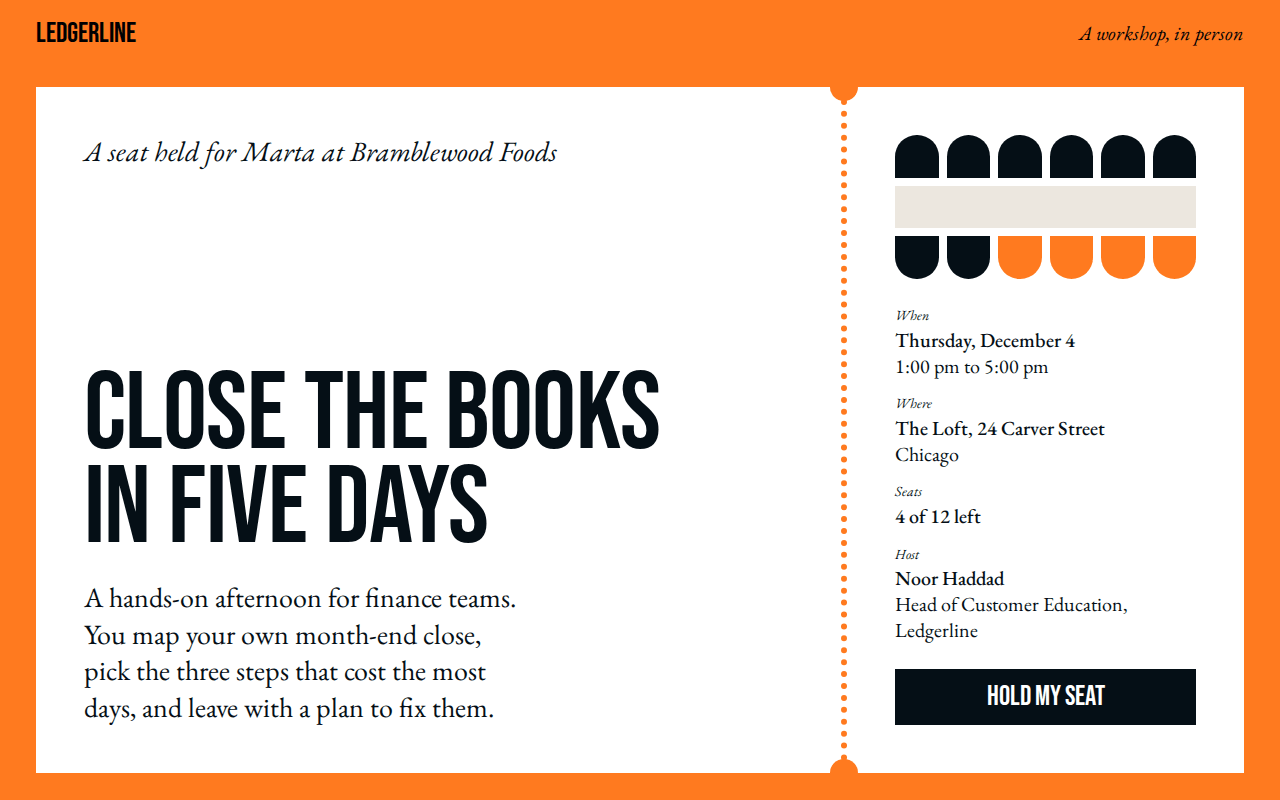
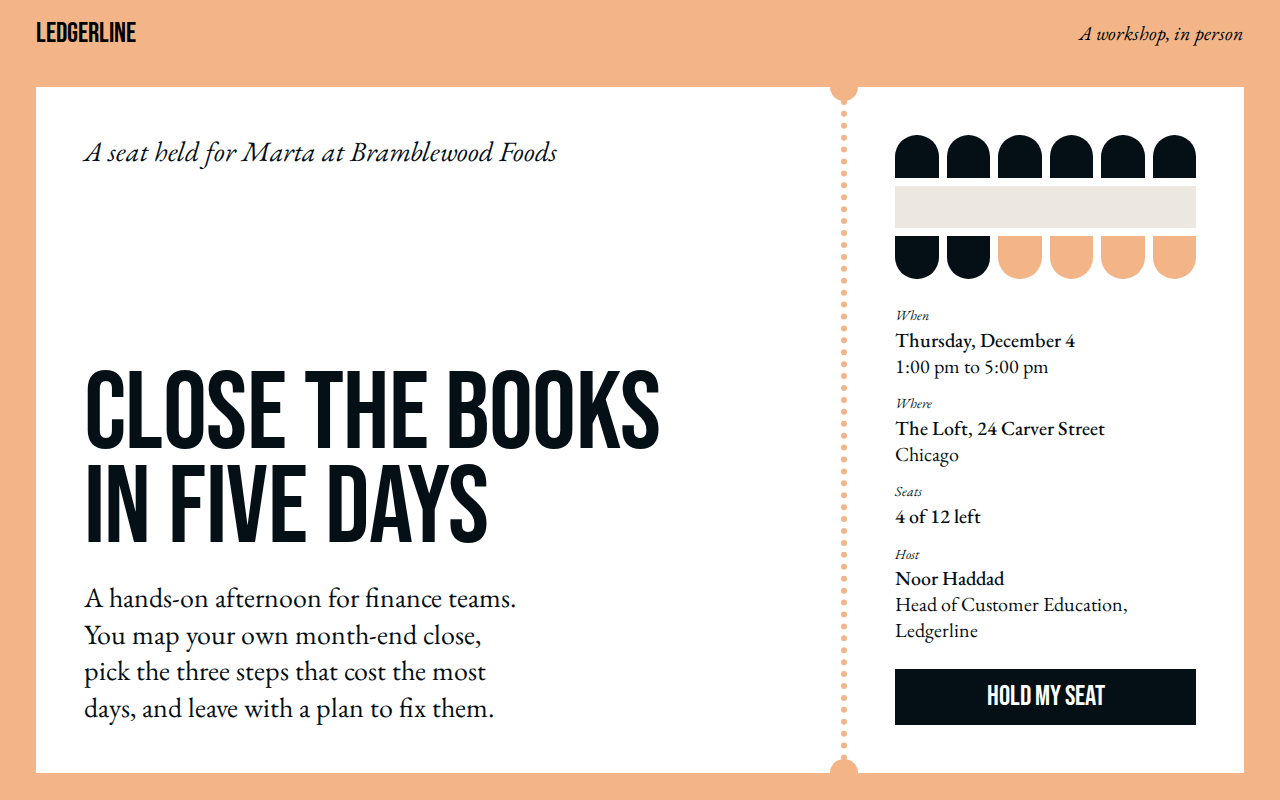
Library colour pass: workshop, softer orange workbench ground

Changed region(s): [[0.0, 0.0, 1.0, 1.0], [0.7812, 0.2812, 0.9375, 0.3438]]

diff --git a/starters/workshop/preview/norland-waitlist.html b/starters/workshop/preview/norland-waitlist.html
@@ -9,7 +9,7 @@
 <link rel="stylesheet" href="https://fonts.googleapis.com/css2?family=EB+Garamond:ital,wght@0,400;0,500;1,400&display=swap">
 <style>
 :root{
-  --p:#ff7a1f;
+  --p:#f3b588;
   --s:#050f16;
   --fh:'Bebas Neue','Arial Narrow',Arial,sans-serif;
   --fb:'EB Garamond',Georgia,serif;
@@ -289,7 +289,7 @@ body:not(.caps) .card h1{line-height:.98}
 </div>
 </div>
 <div class="right">
-<form class="ken-form" data-ken-form="seat" data-ken-preview><input type="hidden" name="_ken_form" value="seat"><label class="ken-form-field"><span>Name</span><input type="text" name="name" maxlength="500" required disabled></label><label class="ken-form-field"><span>Email</span><input type="email" name="email" maxlength="500" required disabled></label><label class="ken-form-field"><span>Company</span><input type="text" name="company" maxlength="500" disabled></label><label class="ken-form-field"><span>Title</span><input type="text" name="title" maxlength="500" disabled></label><label class="ken-form-field"><span>Note</span><textarea name="note" rows="4" maxlength="2000" disabled></textarea></label><button type="submit" class="ken-form-submit" disabled style="padding:12px 20px;border:0;border-radius:8px;background:#ff7a1f;color:#fff;font-weight:600;cursor:not-allowed">Join the waitlist</button><p class="ken-form-preview" role="note" style="margin:8px 0 0;font-size:13px;opacity:.7">Preview: not saved</p></form>
+<form class="ken-form" data-ken-form="seat" data-ken-preview><input type="hidden" name="_ken_form" value="seat"><label class="ken-form-field"><span>Name</span><input type="text" name="name" maxlength="500" required disabled></label><label class="ken-form-field"><span>Email</span><input type="email" name="email" maxlength="500" required disabled></label><label class="ken-form-field"><span>Company</span><input type="text" name="company" maxlength="500" disabled></label><label class="ken-form-field"><span>Title</span><input type="text" name="title" maxlength="500" disabled></label><label class="ken-form-field"><span>Note</span><textarea name="note" rows="4" maxlength="2000" disabled></textarea></label><button type="submit" class="ken-form-submit" disabled style="padding:12px 20px;border:0;border-radius:8px;background:#f3b588;color:#fff;font-weight:600;cursor:not-allowed">Join the waitlist</button><p class="ken-form-preview" role="note" style="margin:8px 0 0;font-size:13px;opacity:.7">Preview: not saved</p></form>
 </div>
 </section>
 

diff --git a/starters/workshop/preview/bramblewood.html b/starters/workshop/preview/bramblewood.html
@@ -9,7 +9,7 @@
 <link rel="stylesheet" href="https://fonts.googleapis.com/css2?family=EB+Garamond:ital,wght@0,400;0,500;1,400&display=swap">
 <style>
 :root{
-  --p:#ff7a1f;
+  --p:#f3b588;
   --s:#050f16;
   --fh:'Bebas Neue','Arial Narrow',Arial,sans-serif;
   --fb:'EB Garamond',Georgia,serif;
@@ -289,7 +289,7 @@ body:not(.caps) .card h1{line-height:.98}
 </div>
 </div>
 <div class="right">
-<form class="ken-form" data-ken-form="seat" data-ken-preview><input type="hidden" name="_ken_form" value="seat"><label class="ken-form-field"><span>Name</span><input type="text" name="name" maxlength="500" required disabled></label><label class="ken-form-field"><span>Email</span><input type="email" name="email" maxlength="500" required disabled></label><label class="ken-form-field"><span>Company</span><input type="text" name="company" maxlength="500" disabled></label><label class="ken-form-field"><span>Title</span><input type="text" name="title" maxlength="500" disabled></label><label class="ken-form-field"><span>Note</span><textarea name="note" rows="4" maxlength="2000" disabled></textarea></label><button type="submit" class="ken-form-submit" disabled style="padding:12px 20px;border:0;border-radius:8px;background:#ff7a1f;color:#fff;font-weight:600;cursor:not-allowed">Hold my seat</button><p class="ken-form-preview" role="note" style="margin:8px 0 0;font-size:13px;opacity:.7">Preview: not saved</p></form>
+<form class="ken-form" data-ken-form="seat" data-ken-preview><input type="hidden" name="_ken_form" value="seat"><label class="ken-form-field"><span>Name</span><input type="text" name="name" maxlength="500" required disabled></label><label class="ken-form-field"><span>Email</span><input type="email" name="email" maxlength="500" required disabled></label><label class="ken-form-field"><span>Company</span><input type="text" name="company" maxlength="500" disabled></label><label class="ken-form-field"><span>Title</span><input type="text" name="title" maxlength="500" disabled></label><label class="ken-form-field"><span>Note</span><textarea name="note" rows="4" maxlength="2000" disabled></textarea></label><button type="submit" class="ken-form-submit" disabled style="padding:12px 20px;border:0;border-radius:8px;background:#f3b588;color:#fff;font-weight:600;cursor:not-allowed">Hold my seat</button><p class="ken-form-preview" role="note" style="margin:8px 0 0;font-size:13px;opacity:.7">Preview: not saved</p></form>
 </div>
 </section>
 
